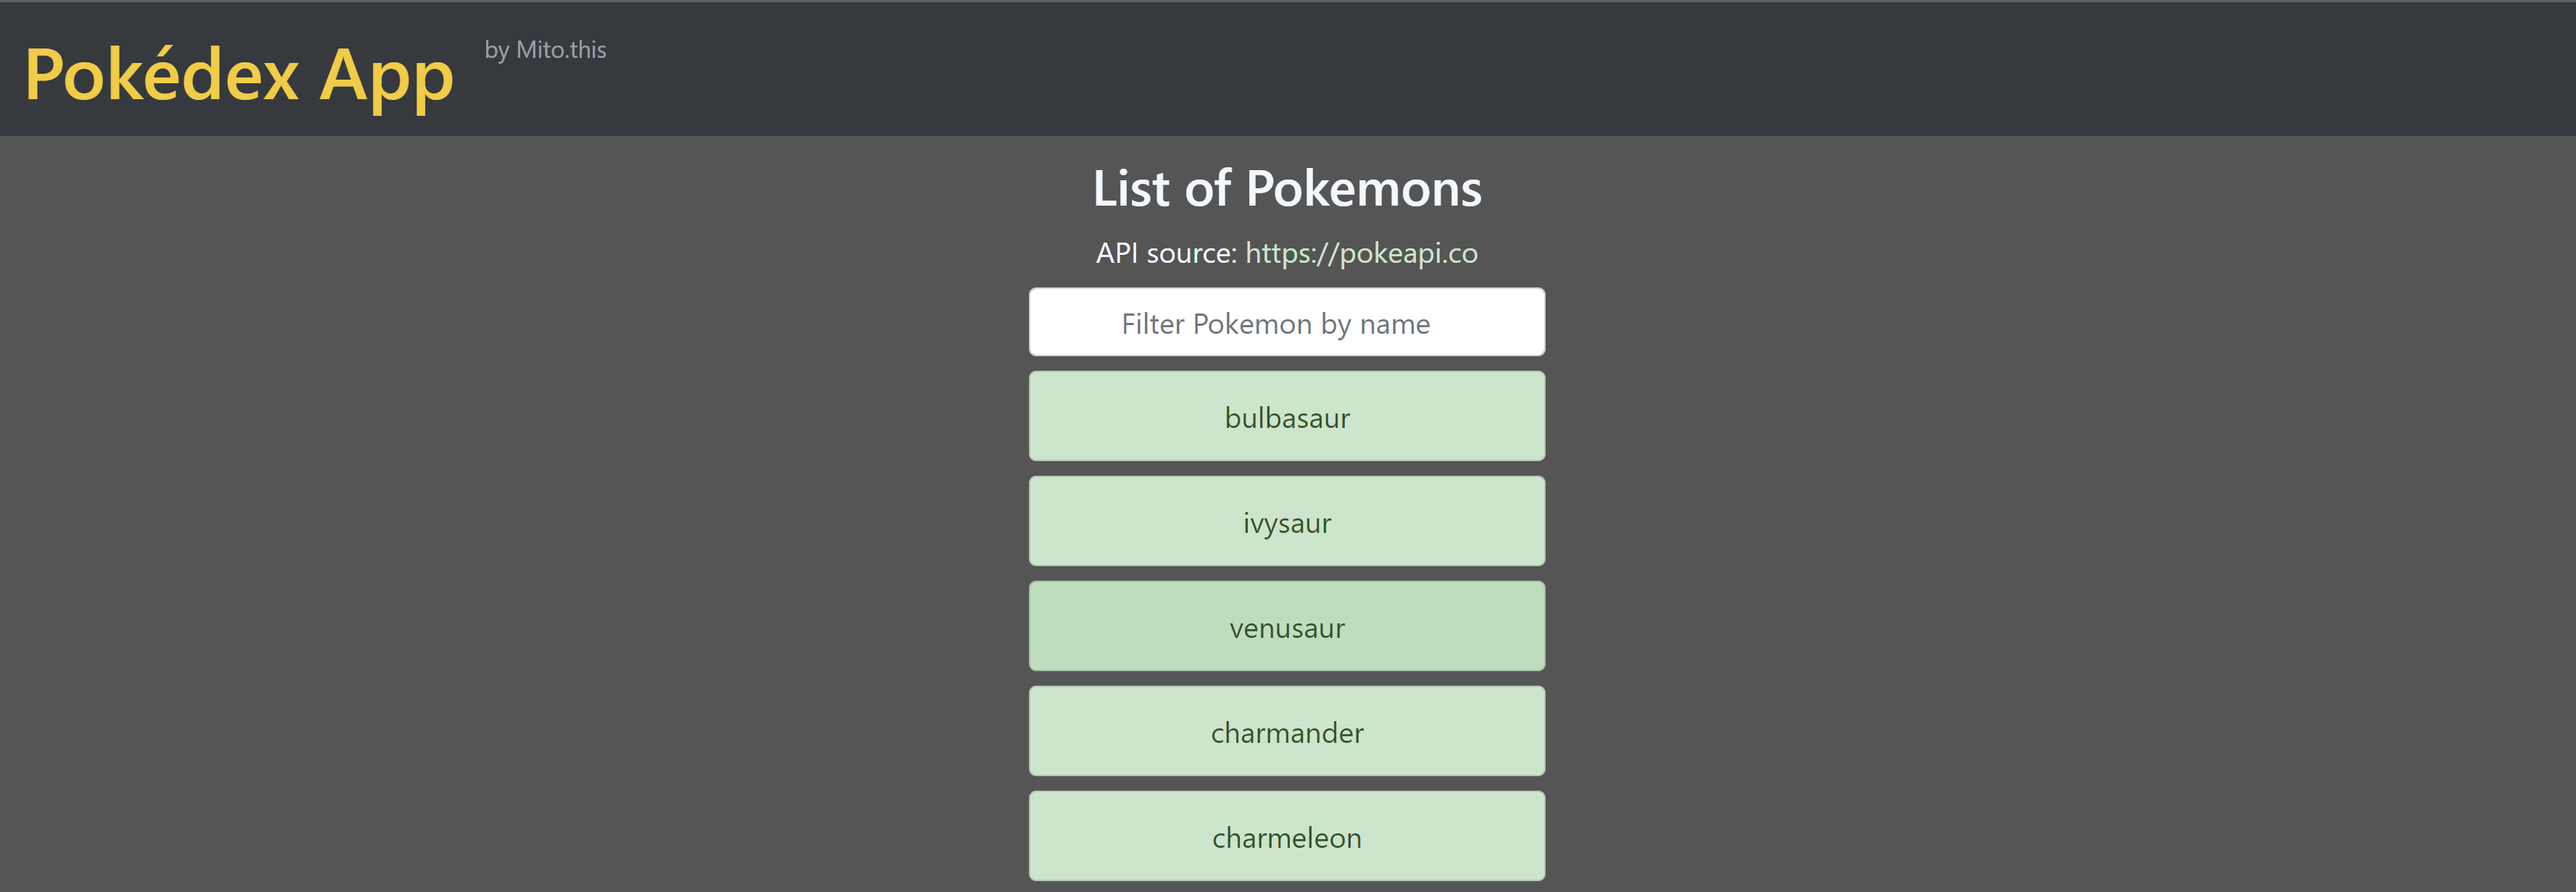
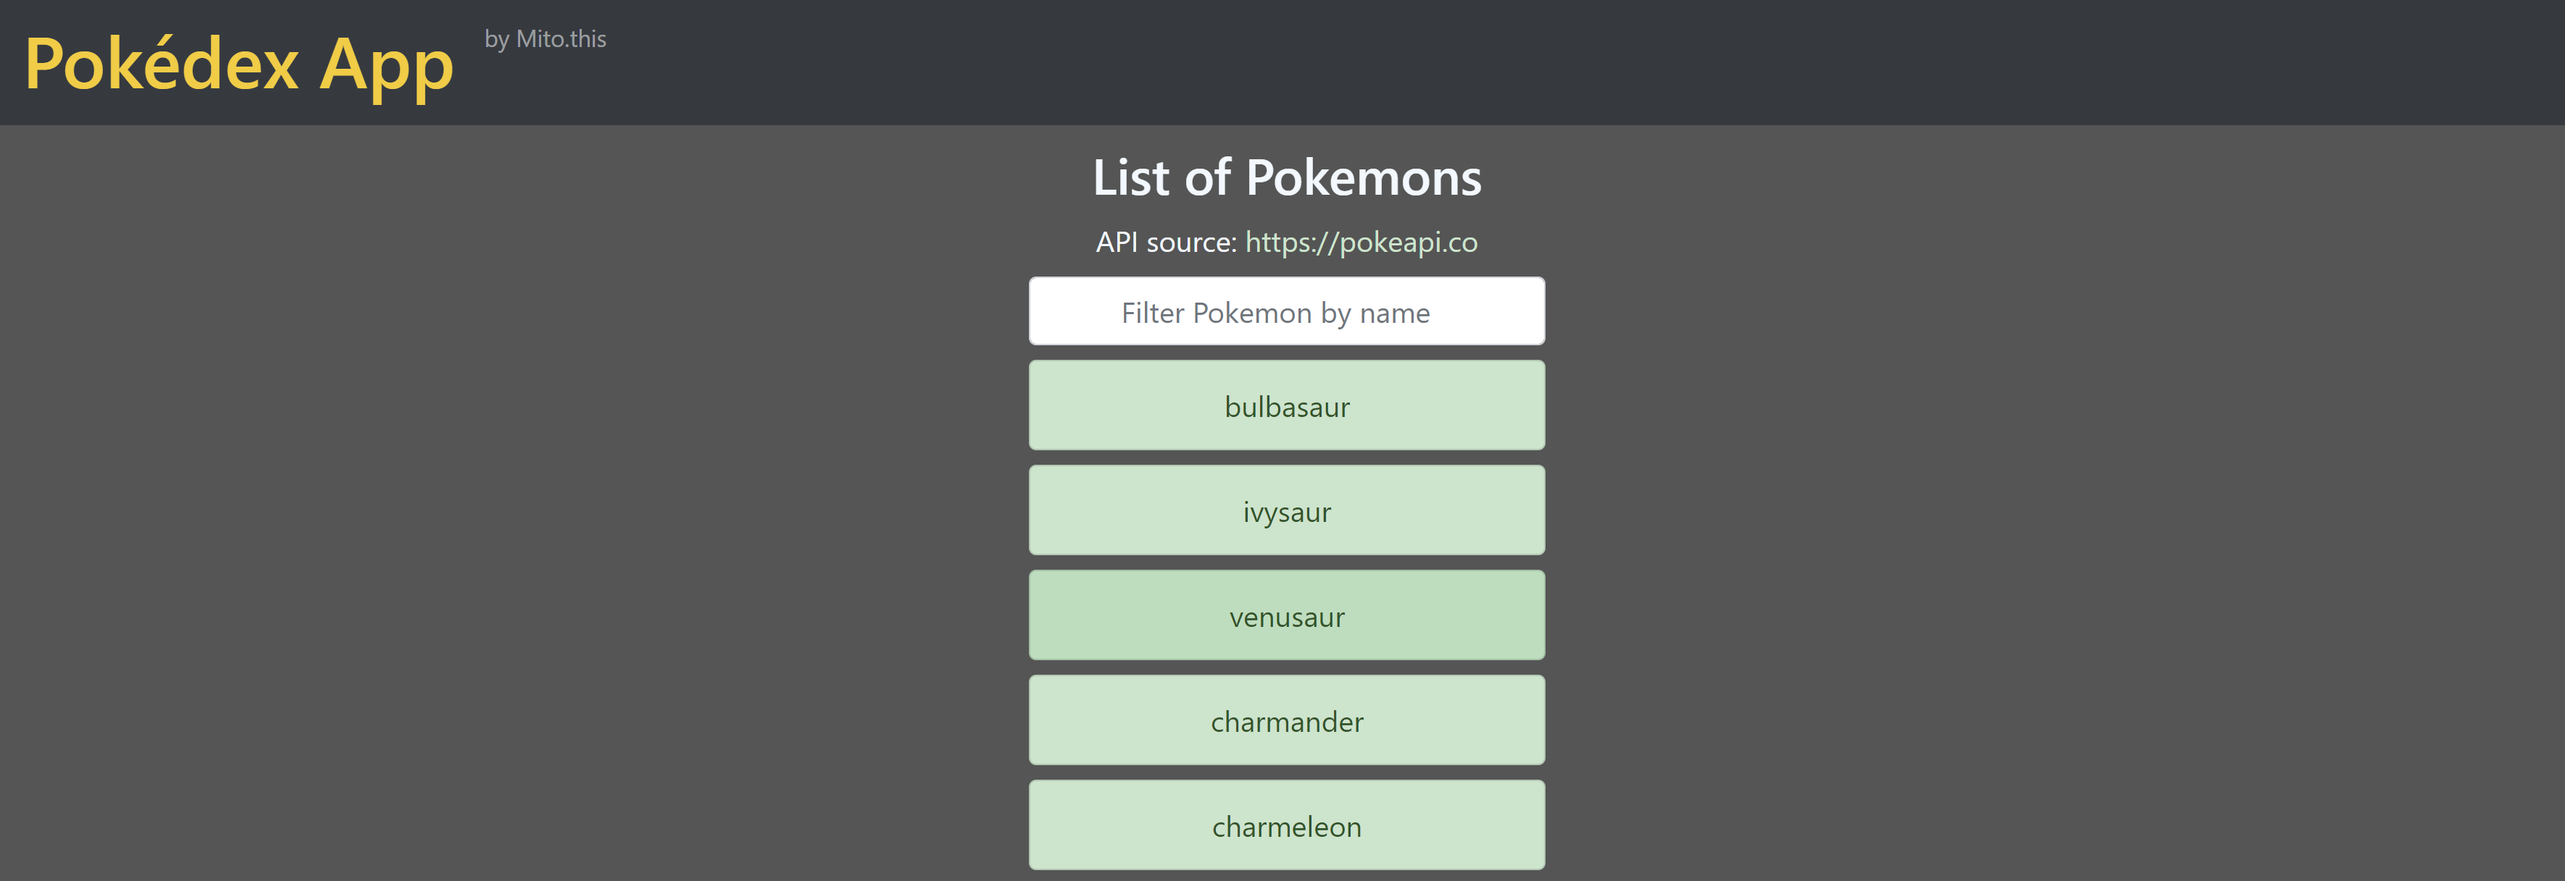
updated readme and screenshots

diff --git a/README.md b/README.md
@@ -6,7 +6,11 @@ This app was created as a study project during my Fullstack Webdeveloper course 
 # live demo
 [Pokedex app](https://mitomonkey.github.io/Pokedex-App/)
 
-![Screenshot](./img/Screenshot.png)
+## Screenshots
+<p float="left">
+<img src="./img/Screenshot_main.png" width="350">
+<img src="./img/Screenshot_modal.png" width="350">
+</p>
 
 ## The study goals were to
 * Created a list of pokemon as an object and implement functions to print the list to the console as well as add a new pokemon
